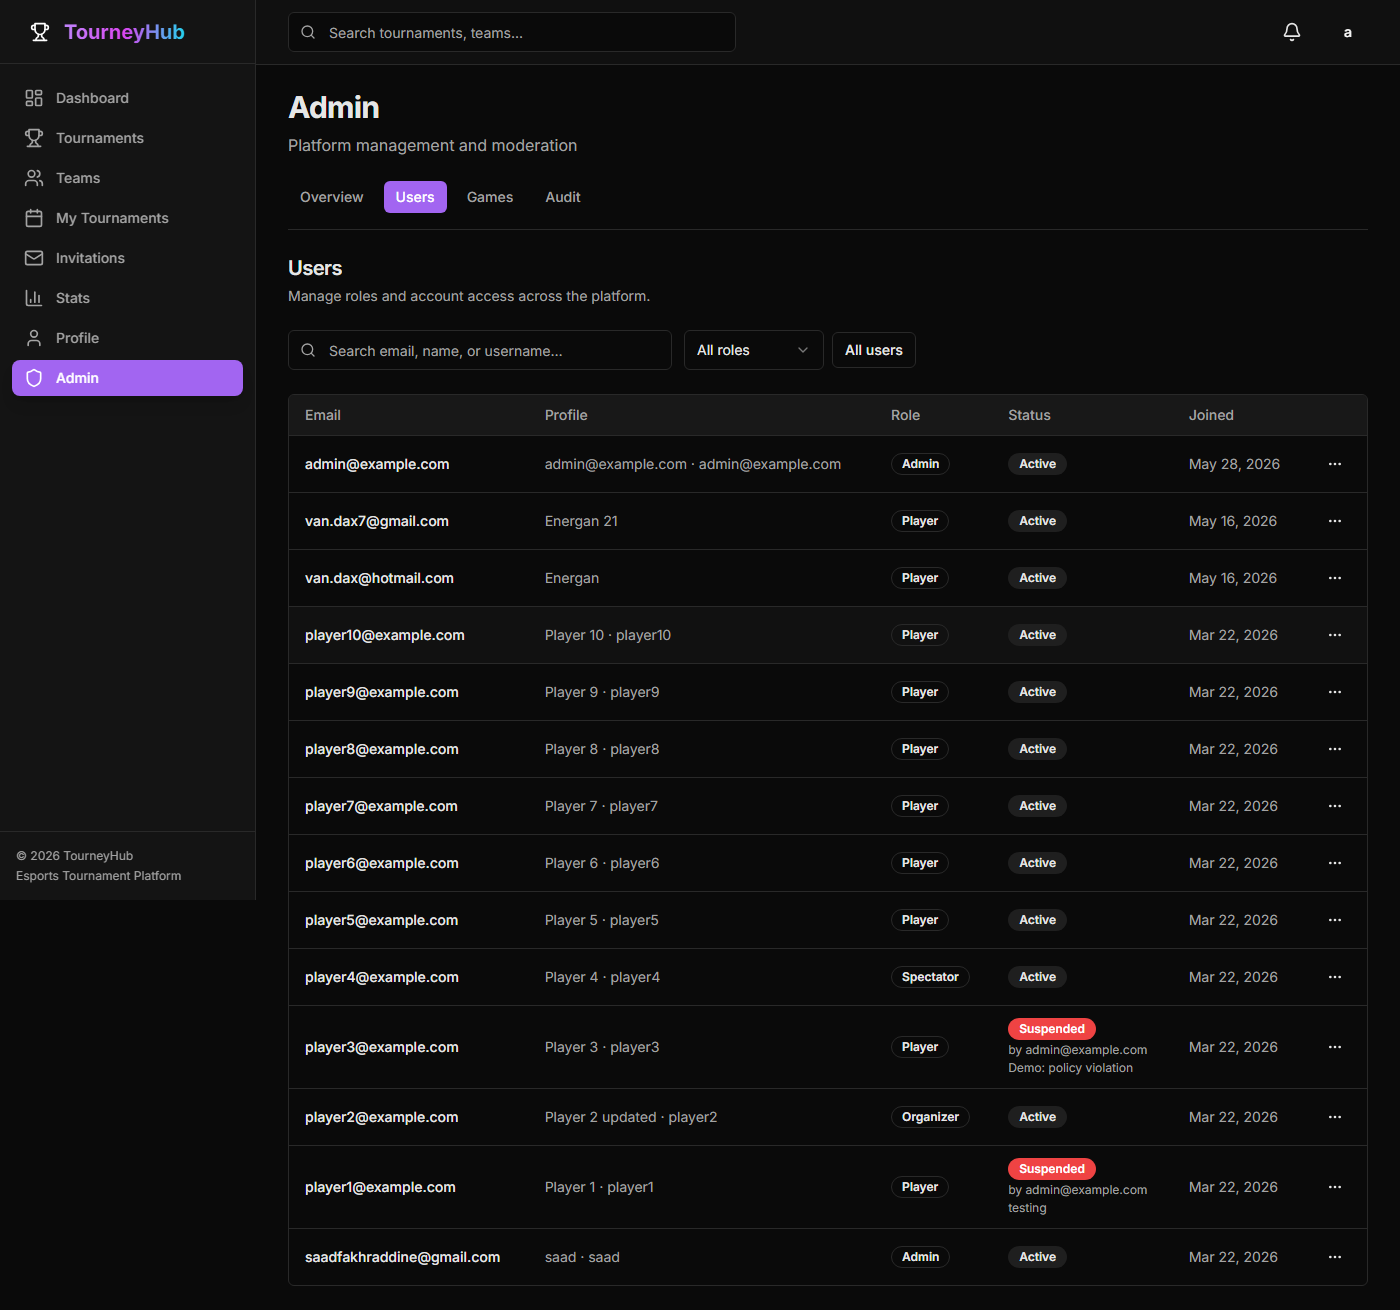
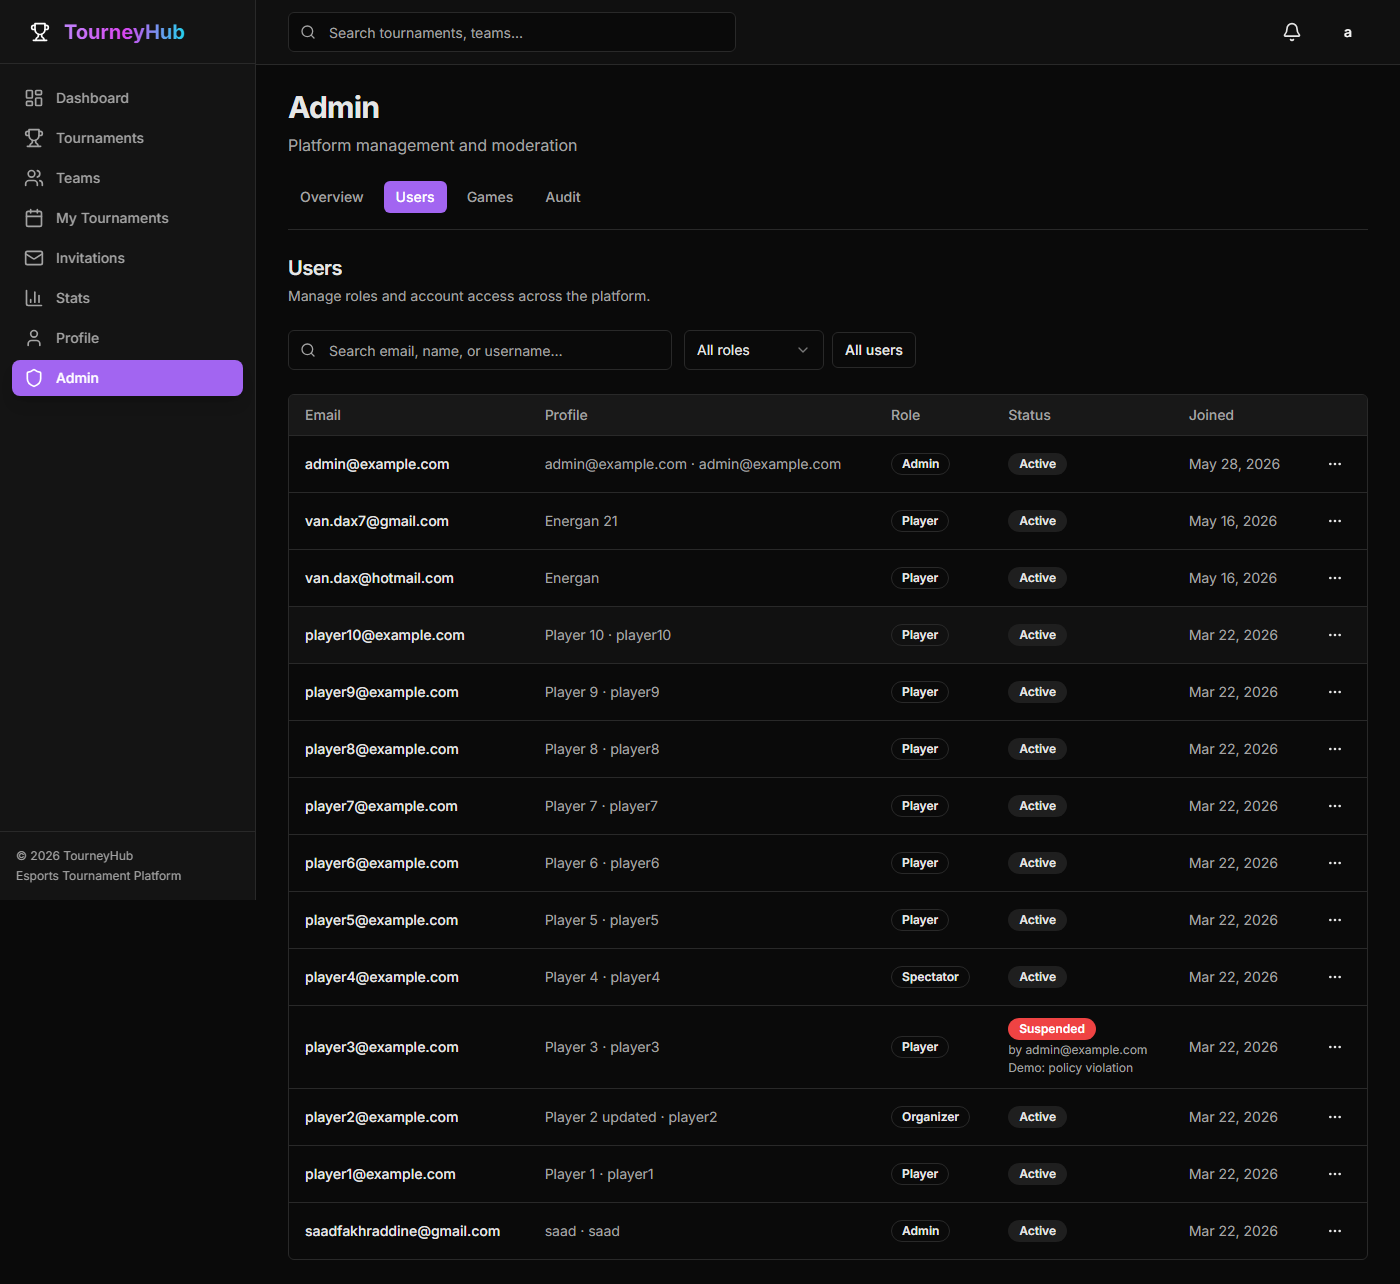
fix(screenshots): sign in via Auth.js API for reliable Playwright capture
Replace fragile login-form automation with CSRF credentials API auth, add demo user ensure step, and refresh portfolio/admin images.

diff --git a/scripts/lib/screenshot-sign-in.ts b/scripts/lib/screenshot-sign-in.ts
@@ -1,0 +1,105 @@
+import type { BrowserContext, Page } from 'playwright'
+
+const HEALTH_TIMEOUT_MS = 15_000
+
+/** Fail fast when the target host is down or stuck (e.g. zombie process on :3000). */
+export async function assertScreenshotBaseUrlReachable(baseUrl: string): Promise<void> {
+  const controller = new AbortController()
+  const timer = setTimeout(() => controller.abort(), HEALTH_TIMEOUT_MS)
+  try {
+    const res = await fetch(new URL('/api/auth/csrf', baseUrl).toString(), {
+      signal: controller.signal,
+    })
+    if (!res.ok) {
+      throw new Error(`HTTP ${res.status}`)
+    }
+  } catch (error) {
+    const hint =
+      baseUrl.includes('localhost')
+        ? ' Stop other dev servers, kill anything on that port, then run `npm run dev` and set SCREENSHOT_BASE_URL to the port Next prints.'
+        : ' Check the deployment is up and DATABASE_URL on Vercel is valid.'
+    throw new Error(
+      `Cannot reach ${baseUrl} for screenshots (${error instanceof Error ? error.message : error}).${hint}`,
+    )
+  } finally {
+    clearTimeout(timer)
+  }
+}
+
+/**
+ * Sign in via Auth.js credentials API (same cookies as the browser UI).
+ * Avoids React hydration races that cause native GET submits on /login.
+ */
+export async function screenshotSignIn(
+  page: Page,
+  baseUrl: string,
+  email: string,
+  password: string,
+): Promise<void> {
+  const context = page.context()
+  await signInWithAuthApi(context, baseUrl, email, password)
+
+  await page.goto(new URL('/dashboard', baseUrl).toString(), {
+    waitUntil: 'domcontentloaded',
+    timeout: 60_000,
+  })
+
+  if (/\/login(\?|$)/.test(page.url())) {
+    const alert = await page.locator('[role=alert]').textContent().catch(() => null)
+    throw new Error(
+      `Session not established for ${email}${alert ? `: ${alert.trim()}` : ''}. ` +
+        'Run `npm run db:seed` or `npx tsx scripts/ensure-screenshot-users.ts` and unsuspend the account.',
+    )
+  }
+
+  await page.waitForTimeout(1500)
+}
+
+async function signInWithAuthApi(
+  context: BrowserContext,
+  baseUrl: string,
+  email: string,
+  password: string,
+): Promise<void> {
+  const origin = baseUrl.replace(/\/$/, '')
+  const csrfRes = await context.request.get(`${origin}/api/auth/csrf`, { timeout: 30_000 })
+  if (!csrfRes.ok()) {
+    throw new Error(`CSRF request failed: HTTP ${csrfRes.status()}`)
+  }
+
+  const { csrfToken } = (await csrfRes.json()) as { csrfToken: string }
+  const loginRes = await context.request.post(`${origin}/api/auth/callback/credentials`, {
+    form: {
+      email,
+      password,
+      csrfToken,
+      callbackUrl: `${origin}/dashboard`,
+      redirect: 'false',
+      json: 'true',
+    },
+    timeout: 60_000,
+  })
+
+  const cookies = await context.cookies(origin)
+  const hasSession = cookies.some((c) => c.name.includes('session-token'))
+  if (!hasSession) {
+    const body = await loginRes.text()
+    const configError =
+      body.includes('error=Configuration') || body.includes('"error":"Configuration"')
+    if (configError) {
+      throw new Error(
+        'Auth Configuration error — the running app cannot connect to the database. ' +
+          'Restart `npm run dev` after fixing DATABASE_URL in .env (use the Supabase pooler URL with pgbouncer=true).',
+      )
+    }
+    const suspended =
+      body.includes('AccountSuspended') || body.includes('error=AccountSuspended')
+    if (suspended) {
+      throw new Error(`Account suspended: ${email}. Unsuspend in admin or re-run ensure-screenshot-users.`)
+    }
+    throw new Error(
+      `Credentials sign-in failed for ${email} (HTTP ${loginRes.status()}). ` +
+        'Run `npx tsx scripts/ensure-screenshot-users.ts`.',
+    )
+  }
+}

diff --git a/scripts/capture-portfolio-screenshots.ts b/scripts/capture-portfolio-screenshots.ts
@@ -1,7 +1,9 @@
+import 'dotenv/config'
 import { mkdir } from 'node:fs/promises'
 import path from 'node:path'
 import { chromium, type Page } from 'playwright'
 import { LIVE_DEMO_URL } from '../docs/demo-site'
+import { assertScreenshotBaseUrlReachable, screenshotSignIn } from './lib/screenshot-sign-in'
 
 const baseUrl = process.env.SCREENSHOT_BASE_URL ?? LIVE_DEMO_URL
 const outputDir = path.join(process.cwd(), 'docs', 'images')
@@ -13,12 +15,7 @@ const organizerEmail = process.env.E2E_ORGANIZER_EMAIL ?? 'admin@example.com'
 const organizerPassword = process.env.E2E_ORGANIZER_PASSWORD ?? 'password123'
 
 async function signIn(page: Page, email: string, password: string) {
-  await page.goto(new URL('/login', baseUrl).toString(), { waitUntil: 'domcontentloaded' })
-  await page.getByLabel('Email').fill(email)
-  await page.getByLabel('Password').fill(password)
-  await page.getByRole('button', { name: /^sign in$/i }).click()
-  await page.waitForURL(/\/dashboard(\?|$)/, { timeout: 60_000 })
-  await page.waitForTimeout(2000)
+  await screenshotSignIn(page, baseUrl, email, password)
 }
 
 async function capturePublicPages() {
@@ -127,7 +124,6 @@ async function captureOrganizerPages() {
   })
   await page.getByRole('heading', { name: /bracket designer/i }).waitFor({ timeout: 20_000 })
   await page.getByText('Recommendations').waitFor({ timeout: 20_000 })
-  // Allow recommend + explainPlanner queries to finish (AI insight block)
   await page
     .getByText(/planner insight/i)
     .waitFor({ timeout: 25_000 })
@@ -144,6 +140,7 @@ async function captureOrganizerPages() {
 
 async function main() {
   await mkdir(outputDir, { recursive: true })
+  await assertScreenshotBaseUrlReachable(baseUrl)
   console.log(`Capturing portfolio screenshots from ${baseUrl}`)
   console.log(`Output: ${outputDir}`)
 

diff --git a/scripts/capture-admin-screenshots.ts b/scripts/capture-admin-screenshots.ts
@@ -8,28 +8,17 @@ import { mkdir } from 'node:fs/promises'
 import path from 'node:path'
 import { chromium, type Page } from 'playwright'
 import { LIVE_DEMO_URL } from '../docs/demo-site'
+import { assertScreenshotBaseUrlReachable, screenshotSignIn } from './lib/screenshot-sign-in'
 
 const baseUrl = process.env.SCREENSHOT_BASE_URL ?? LIVE_DEMO_URL
 const outputDir = path.join(process.cwd(), 'docs', 'images')
 const viewport = { width: 1400, height: 900 }
-// Must match scripts/ensure-screenshot-admin.ts (run via npm run screenshots:admin)
+// Credentials match scripts/ensure-screenshot-users.ts
 const email = 'admin@example.com'
 const password = 'password123'
 
 async function signIn(page: Page) {
-  await page.goto(new URL('/login', baseUrl).toString(), { waitUntil: 'networkidle' })
-  await page.getByLabel('Email').waitFor({ state: 'visible', timeout: 30_000 })
-  await page.waitForTimeout(1000)
-
-  await page.getByLabel('Email').fill(email)
-  await page.getByLabel('Password').fill(password)
-
-  await Promise.all([
-    page.waitForURL(/\/dashboard/, { timeout: 60_000 }),
-    page.getByRole('button', { name: /^sign in$/i }).click(),
-  ])
-
-  await page.waitForTimeout(2000)
+  await screenshotSignIn(page, baseUrl, email, password)
   console.log(`Signed in as ${email}`)
 }
 
@@ -119,6 +108,7 @@ async function captureAdminPages(page: Page) {
 
 async function main() {
   await mkdir(outputDir, { recursive: true })
+  await assertScreenshotBaseUrlReachable(baseUrl)
   console.log(`Capturing admin screenshots from ${baseUrl}`)
   console.log(`Output: ${outputDir}`)
 

diff --git a/scripts/capture-organizer-screenshots.ts b/scripts/capture-organizer-screenshots.ts
@@ -3,9 +3,11 @@
  * Run: npx tsx --env-file=.env scripts/capture-organizer-screenshots.ts
  * Or: SCREENSHOT_BASE_URL=http://localhost:3000 npx tsx scripts/capture-organizer-screenshots.ts
  */
+import 'dotenv/config'
 import { mkdir } from 'node:fs/promises'
 import path from 'node:path'
 import { chromium } from 'playwright'
+import { screenshotSignIn } from './lib/screenshot-sign-in'
 
 const baseUrl = process.env.SCREENSHOT_BASE_URL ?? 'http://localhost:3000'
 const outputDir = path.join(process.cwd(), 'docs', 'images')
@@ -18,12 +20,7 @@ async function main() {
   const page = await browser.newPage({ viewport: { width: 1400, height: 900 } })
 
   console.log(`Signing in as ${email} at ${baseUrl}`)
-  await page.goto(new URL('/login', baseUrl).toString(), { waitUntil: 'domcontentloaded' })
-  await page.getByLabel('Email').fill(email)
-  await page.getByLabel('Password').fill(password)
-  await page.getByRole('button', { name: /^sign in$/i }).click()
-  await page.waitForURL(/\/dashboard/, { timeout: 60_000 })
-  await page.waitForTimeout(2000)
+  await screenshotSignIn(page, baseUrl, email, password)
 
   await page.goto(new URL('/dashboard/tournaments', baseUrl).toString(), {
     waitUntil: 'domcontentloaded',

diff --git a/scripts/ensure-screenshot-users.ts b/scripts/ensure-screenshot-users.ts
@@ -1,0 +1,54 @@
+/**
+ * Ensures demo accounts used by screenshot scripts exist and can sign in.
+ */
+import 'dotenv/config'
+import { PrismaClient, UserRole } from '@prisma/client'
+import bcrypt from 'bcryptjs'
+
+const users = [
+  {
+    email: 'admin@example.com',
+    username: 'admin',
+    name: 'Admin',
+    role: UserRole.ADMIN,
+  },
+  {
+    email: 'player1@example.com',
+    username: 'player1',
+    name: 'Player One',
+    role: UserRole.PLAYER,
+  },
+] as const
+
+async function main() {
+  const prisma = new PrismaClient()
+  const hash = await bcrypt.hash('password123', 10)
+
+  for (const user of users) {
+    await prisma.user.upsert({
+      where: { email: user.email },
+      update: {
+        role: user.role,
+        password: hash,
+        bannedAt: null,
+        banReason: null,
+        bannedById: null,
+      },
+      create: {
+        email: user.email,
+        username: user.username,
+        name: user.name,
+        password: hash,
+        role: user.role,
+      },
+    })
+    console.log(`Ready: ${user.email} / password123`)
+  }
+
+  await prisma.$disconnect()
+}
+
+main().catch((error) => {
+  console.error(error)
+  process.exit(1)
+})

diff --git a/docs/SCREENSHOTS.md b/docs/SCREENSHOTS.md
@@ -12,6 +12,15 @@ Uses `player1@example.com` / `password123` for the player dashboard and `admin@e
 
 Optional: `SCREENSHOT_BASE_URL=http://localhost:3000` to capture a local dev server instead of production.
 
+Sign-in uses the **Auth.js API** (not the login form), so React hydration timing no longer breaks captures.
+
+### If local capture fails
+
+1. **Port stuck / timeouts** — Something on `:3000` may be hung while Next runs on `:3002`. Stop all `node` dev servers, free the port, then `npm run dev` and set `SCREENSHOT_BASE_URL` to the URL Next prints.
+2. **Configuration error** — The dev server’s `DATABASE_URL` is wrong or unreachable. Fix `.env`, restart `npm run dev`.
+3. **Invalid credentials / suspended** — Run `npx tsx scripts/ensure-screenshot-users.ts` (also runs automatically via `npm run screenshots:*`).
+4. **Fastest path** — Omit `SCREENSHOT_BASE_URL` to capture the live demo on Vercel (default).
+
 ## Public pages only (manual)
 
 ```bash
